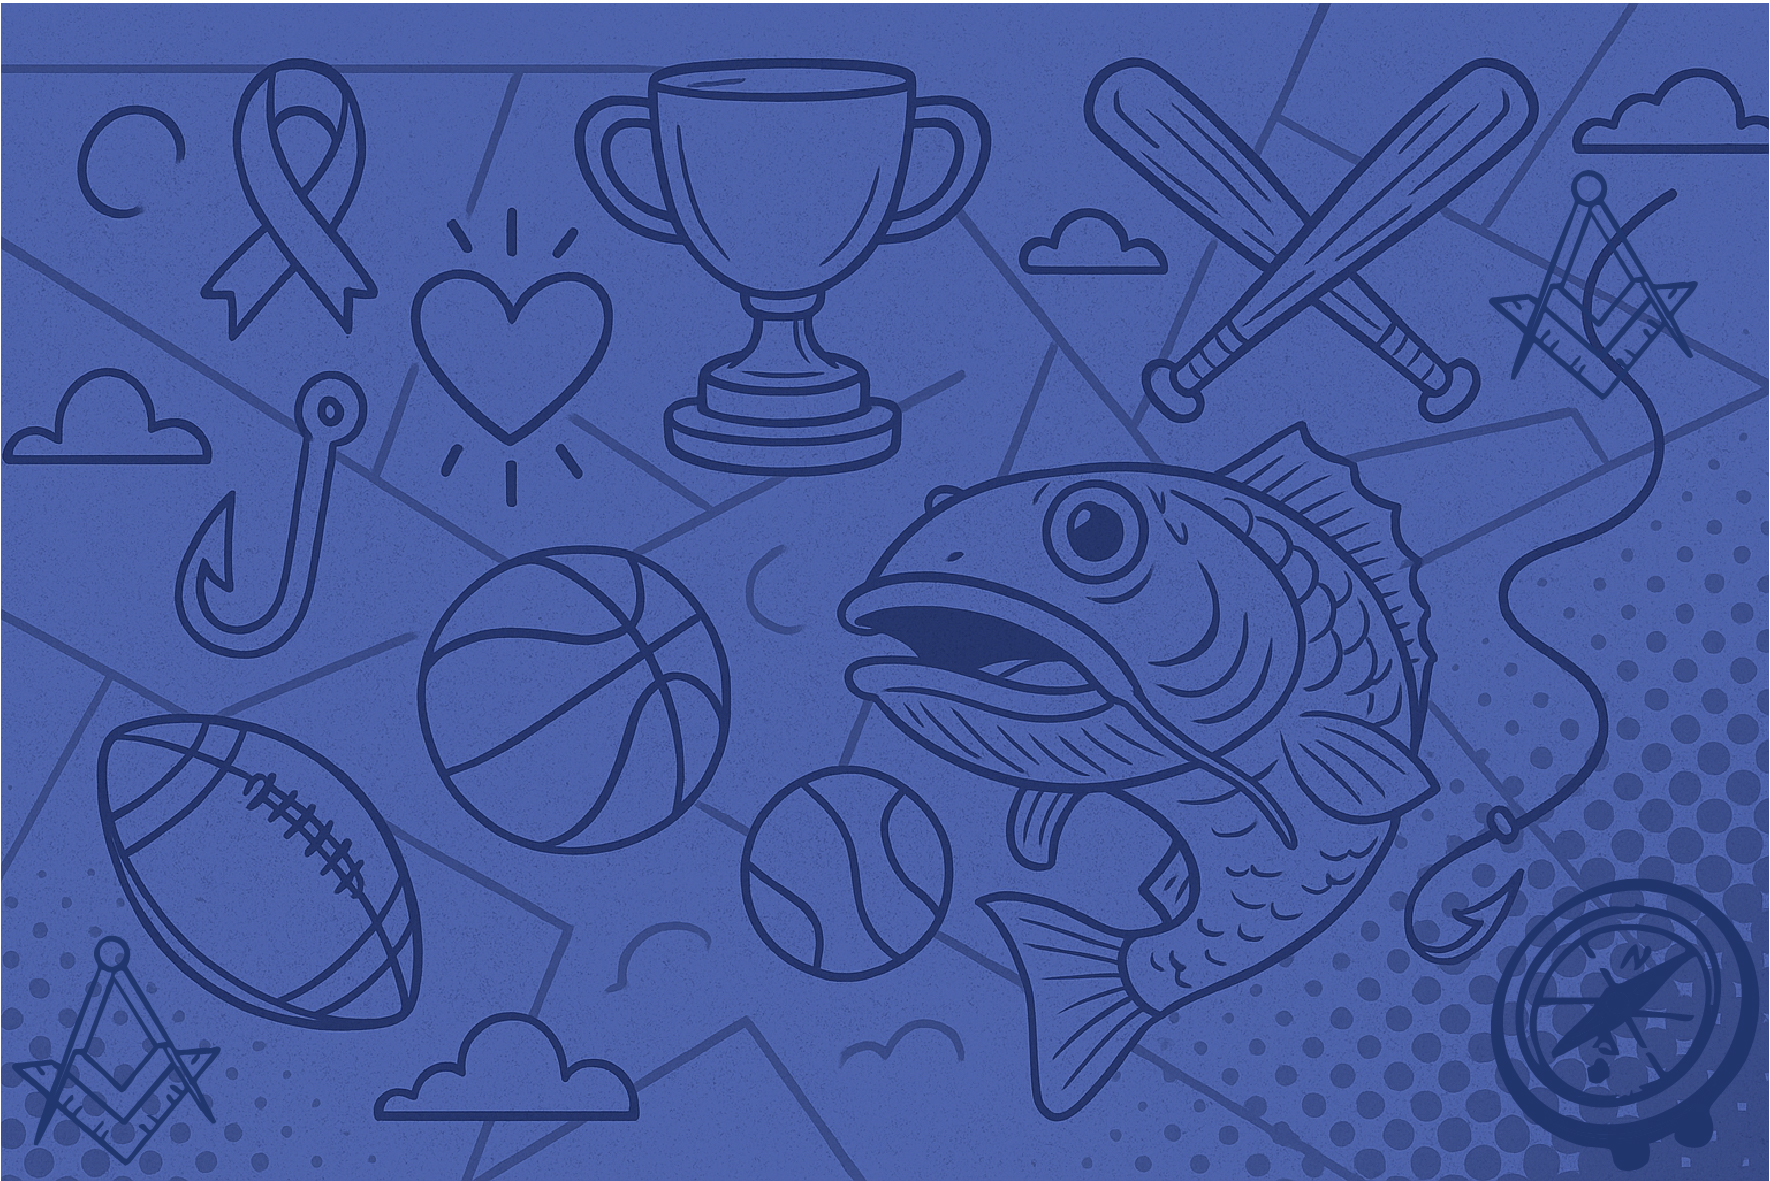
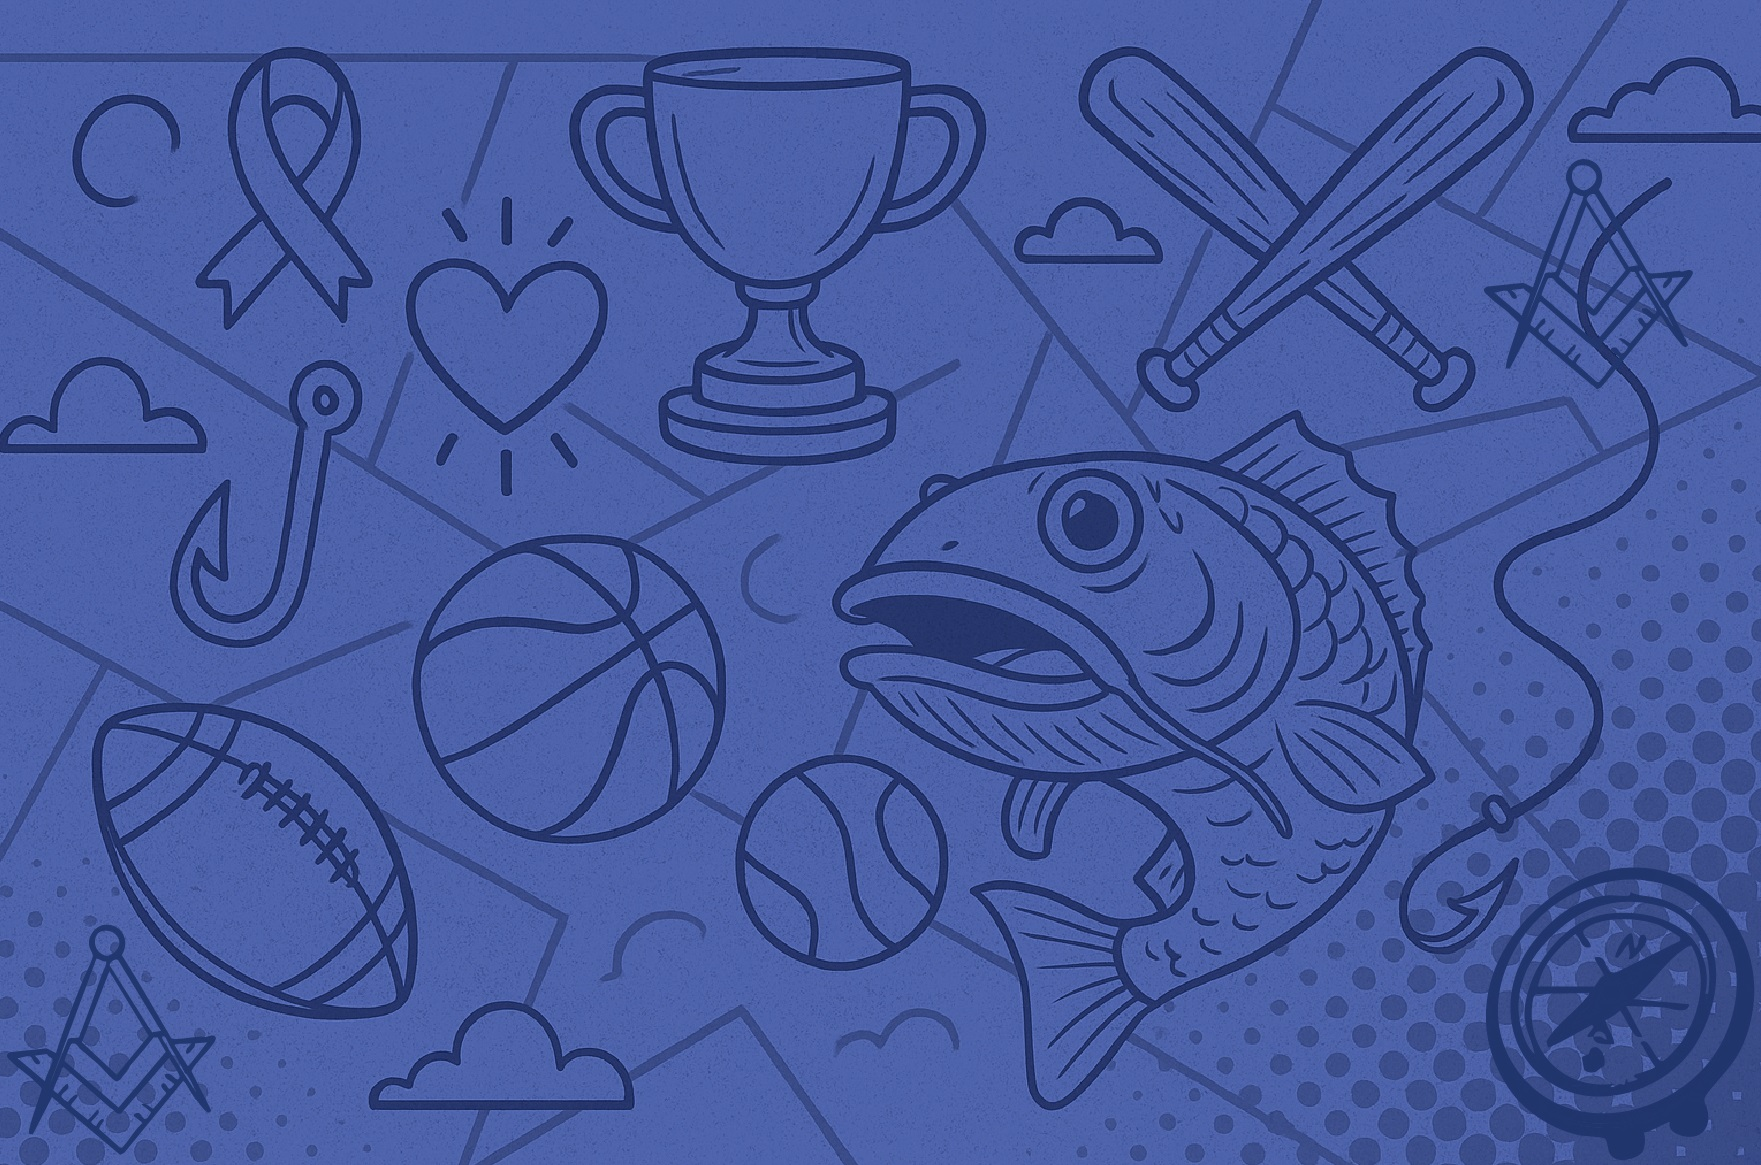
feat:add-circle-join-content-to-hero

diff --git a/src/components/Banner/banner.module.scss b/src/components/Banner/banner.module.scss
@@ -15,15 +15,17 @@
 
   .banner_subtitle {
     position: absolute;
-    top: 20%;
+    top: 15%;
     left: 50%;
     transform: translate(-50%, -50%);
+    z-index: 1000;
   }
   .banner_gif {
     position: absolute;
     top: 50%;
     left: 50%;
     transform: translate(-50%, -50%);
+    z-index: 1000;
     .banner_anim {
       width: 100%;
     }
@@ -38,6 +40,69 @@
     justify-content: space-between;
     align-items: center;
   }
+
+  .banner_joinus {
+    padding: 90px;
+    width: 700px;
+    background-color: #c1daea;
+    color: #000;
+    border: 4px solid #000;
+    display: flex;
+    position: absolute;
+    bottom: 20%;
+    left: -5%;
+    border-radius: 50%;
+    .banner_joinus_content {
+      display: flex;
+      flex-direction: column;
+      justify-content: center;
+      align-items: start;
+      gap: 10px;
+      rotate: -3deg;
+    }
+    .banner_btnWallet_title {
+      -webkit-text-stroke: 8px black;
+      paint-order: stroke fill;
+    }
+    .banner_btnWallet_subTitle {
+      font-size: 20px;
+      font-family: "HeyComic", sans-serif;
+    }
+    .banner_joinus_concepts {
+      padding: 8px 16px;
+      border-radius: 32px;
+      background-color: #2045ca;
+      color: #ffffff;
+      p {
+        font-size: 24px;
+        -webkit-text-stroke: 1px black;
+        margin: 0;
+      }
+      .banner_joinus_dot {
+        border: 2px solid #000;
+        border-radius: 100%;
+        width: 15px;
+        height: 15px;
+        background-color: #f5882d;
+      }
+    }
+    .walletConnect {
+      margin-top: 16px;
+      padding: 0.5rem 4rem;
+      color: #ffffff;
+      background-color: #f5882d;
+      border: 4px solid #000;
+      font-size: 36px !important;
+      font-weight: 500;
+      font-family: "Badaboom BB", sans-serif;
+      letter-spacing: 2px;
+      cursor: pointer;
+      transition: all 0.1s;
+      -webkit-text-stroke: 4px black;
+      paint-order: stroke fill;
+    }
+  }
+
   .banner_btnWallet {
     padding: 20px;
     width: 450px;
@@ -49,7 +114,7 @@
     flex-direction: column;
     gap: 30px;
     position: absolute;
-    bottom: 5%;
+    bottom: 25%;
     right: 2%;
     .banner_btnWallet_title {
       -webkit-text-stroke: 4px black;

diff --git a/src/components/Banner/index.tsx b/src/components/Banner/index.tsx
@@ -6,7 +6,7 @@ const Banner: React.FC = () => {
   return (
     <div className={`${styles.banner}`}>
       <div className={styles.banner_subtitle}>
-        <h2>WHERE SPORTS. CHARITY & CRYPTO COLLIDE</h2>
+        <h1>WHERE SPORTS. CHARITY & CRYPTO COLLIDE</h1>
       </div>
       <div className={styles.banner_gif}>
         <img
@@ -18,6 +18,36 @@ const Banner: React.FC = () => {
       <div className={styles.banner_bottom}>
         <div className={`${styles.banner_social}`}>
           <SocialButton />
+        </div>
+      </div>
+      <div className={styles.banner_joinus}>
+        <div className={styles.banner_joinus_content}>
+          <h1 className={styles.banner_btnWallet_title}>
+            $REELBRO. the people's meme coin.
+          </h1>
+          <p className={styles.banner_btnWallet_subTitle}>
+            The Flockerz revolutionary Vote-To-Earn platform puts the POWER in
+            your hands.
+          </p>
+          <div className="d-flex flex-column justify-content-start">
+            <div className="d-flex gap-3 justify-content-center align-items-center">
+              <div
+                className={`${styles.banner_joinus_concepts} d-flex gap-2 justify-content-center align-items-center`}
+              >
+                <span className={styles.banner_joinus_dot}></span>
+                <p>EARN BY VOTING</p>
+              </div>
+              <div
+                className={`${styles.banner_joinus_concepts} d-flex gap-2 justify-content-center align-items-center`}
+              >
+                <span className={styles.banner_joinus_dot}></span>
+                <p>HUGE EARLY REWARDS</p>
+              </div>
+            </div>
+          </div>
+          <button className={`${styles.walletConnect}`} onClick={() => {}}>
+            JOIN&nbsp;THE&nbsp;$REELBRO!
+          </button>
         </div>
       </div>
       <div className={styles.banner_btnWallet}>

diff --git a/src/App.tsx b/src/App.tsx
@@ -23,8 +23,8 @@ function App() {
         draggable
         pauseOnHover
       />
+      <Navbar />
       <div className="hero_content">
-        <Navbar />
         <Banner />
       </div>
       <Team />

diff --git a/src/index.css b/src/index.css
@@ -39,7 +39,7 @@ h3 {
   background-position: center;
   margin: 10px;
   margin-top: 0;
-  border: 3px solid #364c89;
+  border: 3px solid #21376e;
 }
 
 @media (max-width: 769px) {
